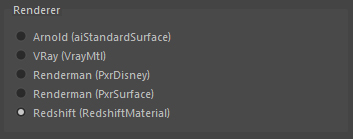
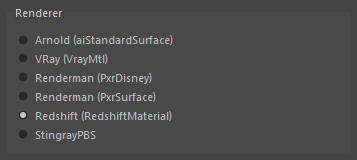
[MAJOR] Add Stingray to the tool
- Add Stingray documentation
- Update other documentations

diff --git a/SubstancePainterToMaya/helper.py b/SubstancePainterToMaya/helper.py
@@ -1,7 +1,6 @@
 import maya.cmds as mc
 import os
 from PySide2 import QtWidgets
-from PySide2 import QtGui
 import re
 
 class foundMap:
@@ -296,6 +295,20 @@ def displaySecondPartOfUI(ui, renderer):
         ui.subdivMax.setEnabled(False)
         ui.optionsSubLayout2.addWidget(ui.subdivMax)
 
+    if renderer.name == 'Stingray':
+        ui.checkbox1.setVisible(False)
+        ui.checkbox2.setVisible(False)
+        ui.checkbox4.setVisible(False)
+        ui.checkbox1.setChecked(False)
+        ui.checkbox2.setChecked(False)
+        ui.checkbox4.setChecked(False)
+
+    else:
+        ui.checkbox1.setVisible(True)
+        ui.checkbox2.setVisible(True)
+        ui.checkbox4.setVisible(True)
+
+
     ui.grpProceed.setVisible(True)
     ui.launchButton.setText('Re-launch')
 
@@ -364,7 +377,7 @@ def connectPlace2dTexture(place2d, fileNode):
     for attribute in connections:
         mc.connectAttr(place2d + '.' + attribute, fileNode + '.' + attribute)
 
-def checkCreateMaterial(ui, texture, renderParamters):
+def checkCreateMaterial(ui, texture, renderer):
     """
         Based on the interface options, create or use existing materials
         :param material: The material's name
@@ -373,7 +386,7 @@ def checkCreateMaterial(ui, texture, renderParamters):
 
     materialNotFound = False
     materialName = texture.textureSet
-    materialType = renderParamters.SHADER
+    materialType = renderer.renderParameters.SHADER
 
     # If create new materials if they doesn't exist, instead use existing ones
     if ui.grpRadioMaterials.checkedId() == -2:
@@ -407,6 +420,8 @@ def checkCreateMaterial(ui, texture, renderParamters):
         if not mc.objExists(materialName) or not mc.objectType(materialName) == materialType:
             # Specify that the material was not found
             materialNotFound = True
+
+    mc.select(materialName)
 
     return materialName, materialNotFound
 

diff --git a/SubstancePainterToMaya/config_stingray.py b/SubstancePainterToMaya/config_stingray.py
@@ -1,0 +1,44 @@
+
+class config:
+
+    def __init__(self):
+        self.MAP_LIST = [
+            '---- Choose', 'baseColor', 'normal', 'metallic', 'roughness', 'emissive', 'Ao',
+            '---- Don\'t use'
+        ]
+
+        self.MAP_LIST_REAL_ATTRIBUTES = [
+            '---- Choose', 'TEX_color_map', 'TEX_normal_map', 'TEX_metallic_map', 'TEX_roughness_map', 'TEX_emissive_map', 'TEX_ao_map',
+            '---- Don\'t use'
+        ]
+
+        self.MAPS_INDICES = {
+            'baseColor': [
+                ['baseColor', 'BaseColor', 'basecolor', 'color', 'Color','albedo', 'Albedo', 'diffuse', 'Diffuse', 'diff', 'Diff'],
+                1
+            ],
+            'metalness': [
+                ['metal', 'Metal', 'metalness', 'Metalness', 'metallic', 'Metallic'],
+                3
+            ],
+            'normal': [
+                ['normal', 'Normal', 'normalMap', 'NormalMap'],
+                2
+            ],
+            'roughness': [
+                ['roughness', 'Roughness', 'specularRoughness', 'SpecularRoughness', 'specular', 'Specular', 'spec', 'Spec'],
+                4
+            ],
+            'Ao': [
+                ['ao', 'Ao', 'AO', 'ambient', 'Ambient', 'occlusion', 'Occlusion', 'AmbientOcclusion', 'Ambientocclusion', 'ambientocclusion'],
+                6
+            ],
+            'emission': [
+                ['emission', 'Emission', 'emissive', 'Emissive', 'light', 'Light'],
+                5
+            ]
+        }
+
+        self.MAP_LIST_COLOR_ATTRIBUTES_INDICES = [1, 2, 3, 4, 5, 6]
+        self.DONT_USE_IDS = [0, 7]
+        self.SHADER = 'StingrayPBS'

diff --git a/SubstancePainterToMaya/UI.py b/SubstancePainterToMaya/UI.py
@@ -124,12 +124,17 @@ class PainterToMayaUI:
         self.grpRadioRenderer.addButton(self.rendererRadio4)
         self.rendererRadio5 = QtWidgets.QRadioButton('Redshift (RedshiftMaterial)')
         self.grpRadioRenderer.addButton(self.rendererRadio5)
+        self.rendererRadio6 = QtWidgets.QRadioButton('StingrayPBS')
+        self.rendererRadio6.toggled.connect(lambda: self.stingraySwitch())
+
+        self.grpRadioRenderer.addButton(self.rendererRadio6)
 
         self.rendererLayout.addWidget(self.rendererRadio1)
         self.rendererLayout.addWidget(self.rendererRadio2)
         self.rendererLayout.addWidget(self.rendererRadio3)
         self.rendererLayout.addWidget(self.rendererRadio4)
         self.rendererLayout.addWidget(self.rendererRadio5)
+        self.rendererLayout.addWidget(self.rendererRadio6)
 
         # Materials
         self.grpMaterials = QtWidgets.QGroupBox('Materials')
@@ -251,6 +256,18 @@ class PainterToMayaUI:
         window = self.mainWindow
         self.mainWindow.show()
         print('UI opened')
+
+    def stingraySwitch(self):
+
+        if self.rendererRadio6.isChecked():
+            self.materialsRadio1.setEnabled(False)
+            self.materialsRadio2.setEnabled(False)
+
+            self.materialsRadio3.setChecked(True)
+        else:
+            self.materialsRadio1.setEnabled(True)
+            self.materialsRadio2.setEnabled(True)
+
 
     def getTextureFolder(self):
         """

diff --git a/SubstancePainterToMaya/main.py b/SubstancePainterToMaya/main.py
@@ -99,6 +99,11 @@ class rendererObject:
             reload(config)
             self.name = 'Redshift'
             print 'Redshift'
+        elif self.ui.grpRadioRenderer.checkedId() == -7:
+            import config_stingray as config
+            reload(config)
+            self.name = 'Stingray'
+            print 'Stingray'
 
         self.renderParameters = config.config()
 
@@ -170,7 +175,11 @@ def proceed(ui, foundTextures, renderer, uiElements):
         import helper_redshift as render_helper
         reload(render_helper)
         subdivisions = ui.checkbox8.isChecked()
-        # subdivisions = ui.checkbox7.isChecked()
+
+    elif renderer.name == 'Stingray':
+        import helper_stingray as render_helper
+        reload(render_helper)
+        subdivisions = False
 
     # Get the textures to use
     texturesToUse = helper.getTexturesToUse(renderer, foundTextures, uiElements)
@@ -182,7 +191,7 @@ def proceed(ui, foundTextures, renderer, uiElements):
         fileNode = helper.createFileNode(texture)
 
         # Create material
-        material, materialNotFound = helper.checkCreateMaterial(ui, texture, renderer.renderParameters)
+        material, materialNotFound = helper.checkCreateMaterial(ui, texture, renderer)
 
         if materialNotFound:
             continue

diff --git a/SubstancePainterToMaya/helper_stingray.py b/SubstancePainterToMaya/helper_stingray.py
@@ -1,0 +1,23 @@
+import maya.cmds as mc
+import helper
+reload(helper)
+
+def connect(ui, texture, renderer, fileNode):
+
+    colorCorrect = ui.checkbox4.isChecked()
+    material = texture.textureSet
+
+    helper.connectTexture(fileNode, texture.output, material, texture.materialAttribute, colorCorrect)
+
+    if texture.materialAttribute == 'TEX_color_map':
+        mc.setAttr(material + '.use_color_map', 1)
+    elif texture.materialAttribute == 'TEX_normal_map':
+        mc.setAttr(material + '.use_normal_map', 1)
+    elif texture.materialAttribute == 'TEX_metallic_map':
+        mc.setAttr(material + '.use_metallic_map', 1)
+    elif texture.materialAttribute == 'TEX_roughness_map':
+        mc.setAttr(material + '.use_roughness_map', 1)
+    elif texture.materialAttribute == 'TEX_emissive_map':
+        mc.setAttr(material + '.use_emissive_map', 1)
+    elif texture.materialAttribute == 'TEX_ao_map':
+        mc.setAttr(material + '.use_ao_map', 1)

diff --git a/Stingray.md b/Stingray.md
@@ -1,0 +1,74 @@
+# Substance to Maya
+## version 0.1
+## Stingray  example
+
+[Go back to documentation](README.md)
+
+NOTES : You need existing StingrayPBS materials in your scene
+
+1 - A scene is opened
+
+![open scene](pics/03_openScene.jpg)
+
+2 - With existing materials
+
+![existing materials](pics/05_existingMaterials_stingray.jpg)
+
+3 - I launch the tool
+
+![install_path](pics/06_launchTool.jpg)
+
+4 - I use the predefined texture folder (project/sourceImages) in my case, use **Get** to use another one
+
+![install_path](pics/07_textureFolder.jpg)
+
+Here's the content of my folder
+
+![install_path](pics/08_textureFolderContent.jpg)
+
+5 - I enter the textureSet and the map of one of my textures in the Naming Convention part
+
+![install_path](pics/09_setNamingConvention.jpg)
+
+6 - I choose my render engine
+
+![install_path](pics/09a_setRenderer_stingray.jpg)
+
+7 - The stingray option only allow to use existing materials
+
+![install_path](pics/09b_material_stingray.jpg)
+
+8 - I click on launch to search for the textures.
+
+![install_path](pics/09c_launch.jpg)
+
+You can now see the list of the found maps, for each map you can specify in which StingrayPBS parameter you want to plug it.
+See that a Sheen, Coat, Height and SSS have been found, let ---- Choose so they will not be used, or choose another parameter.
+For more usual maps, the parameters are already set (but you can change them if you want)
+
+![install_path](pics/10_launch_stingray.jpg)
+
+9 - There's no options for Stingray
+
+![install_path](pics/11_setOptions_stingray.jpg)
+
+10 - I click on proceed to launch the procedure
+
+![install_path](pics/12_proceed.jpg)
+
+11 - Here is the result, textures are applied
+
+![install_path](pics/13_result_stingray.jpg)
+
+12 - In the Hypershade I can see all the new nodes
+
+![install_path](pics/14_hypershade_stingray.jpg)
+
+13 - A material in details
+
+![install_path](pics/15_materialDetails_stingray.jpg)
+
+14 - Enjoy !
+
+
+[Go back to documentation](README.md)

diff --git a/README.md b/README.md
@@ -1,7 +1,15 @@
 # Substance to Maya
 ## version 0.1
 
-This tool is used to automatically connect Substance Painter textures to Arnold, VRay and Renderman for Maya.
+This tool is used to automatically connect Substance Painter textures to Maya.  
+
+Supported render engines and materials: 
+* Arnold - aiStandardSurface
+* VRay - VrayMtl
+* Renderman - PxrDisney
+* Renderman - PxrSurface
+* Redshift - RedshiftMaterial
+* Stingray - StingrayPBS
 
 ## Installation
 * Put the SubstancePainterToMaya folder in a maya script directory   
@@ -90,14 +98,15 @@ Click this button to import the textures, create the nodes and connect everythin
 [VRay - Step by step](Vray.md)  
 [Renderman - PxrDisney - Step by step](pxrDisney.md)  
 [Renderman - PxrSurface - Step by step](pxrSurface.md)
-[Redshift - Step by step](Redshift.md)    
+[Redshift - Step by step](Redshift.md)  
+[Stingray PBS - Step by step](Stingray.md)       
 
 ## Features to come
 
-1. Add new render engine : Stingray PBS
-2. Add UDIMs option
-3. Choose the shader to use (I.e: aiStandardHair, aiStandardVolume...)
-4. Don't create nodes if they're not needed
+1. Add UDIMs option
+2. Choose the shader to use (I.e: aiStandardHair, aiStandardVolume...)
+3. Don't create nodes if they're not needed
+4. Allow the creation of new StingrayPBS materials
 
 ## Credits
 

diff --git a/Redshift.md b/Redshift.md
@@ -1,6 +1,6 @@
 # Substance to Maya
 ## version 0.1
-## Redshift PxrSurface example
+## Redshift example
 
 [Go back to documentation](README.md)
 

diff --git a/Arnold.md b/Arnold.md
@@ -1,6 +1,6 @@
 # Substance to Maya
 ## version 0.1
-## Arnold exemple
+## Arnold example
 
 [Go back to documentation](README.md)
 
